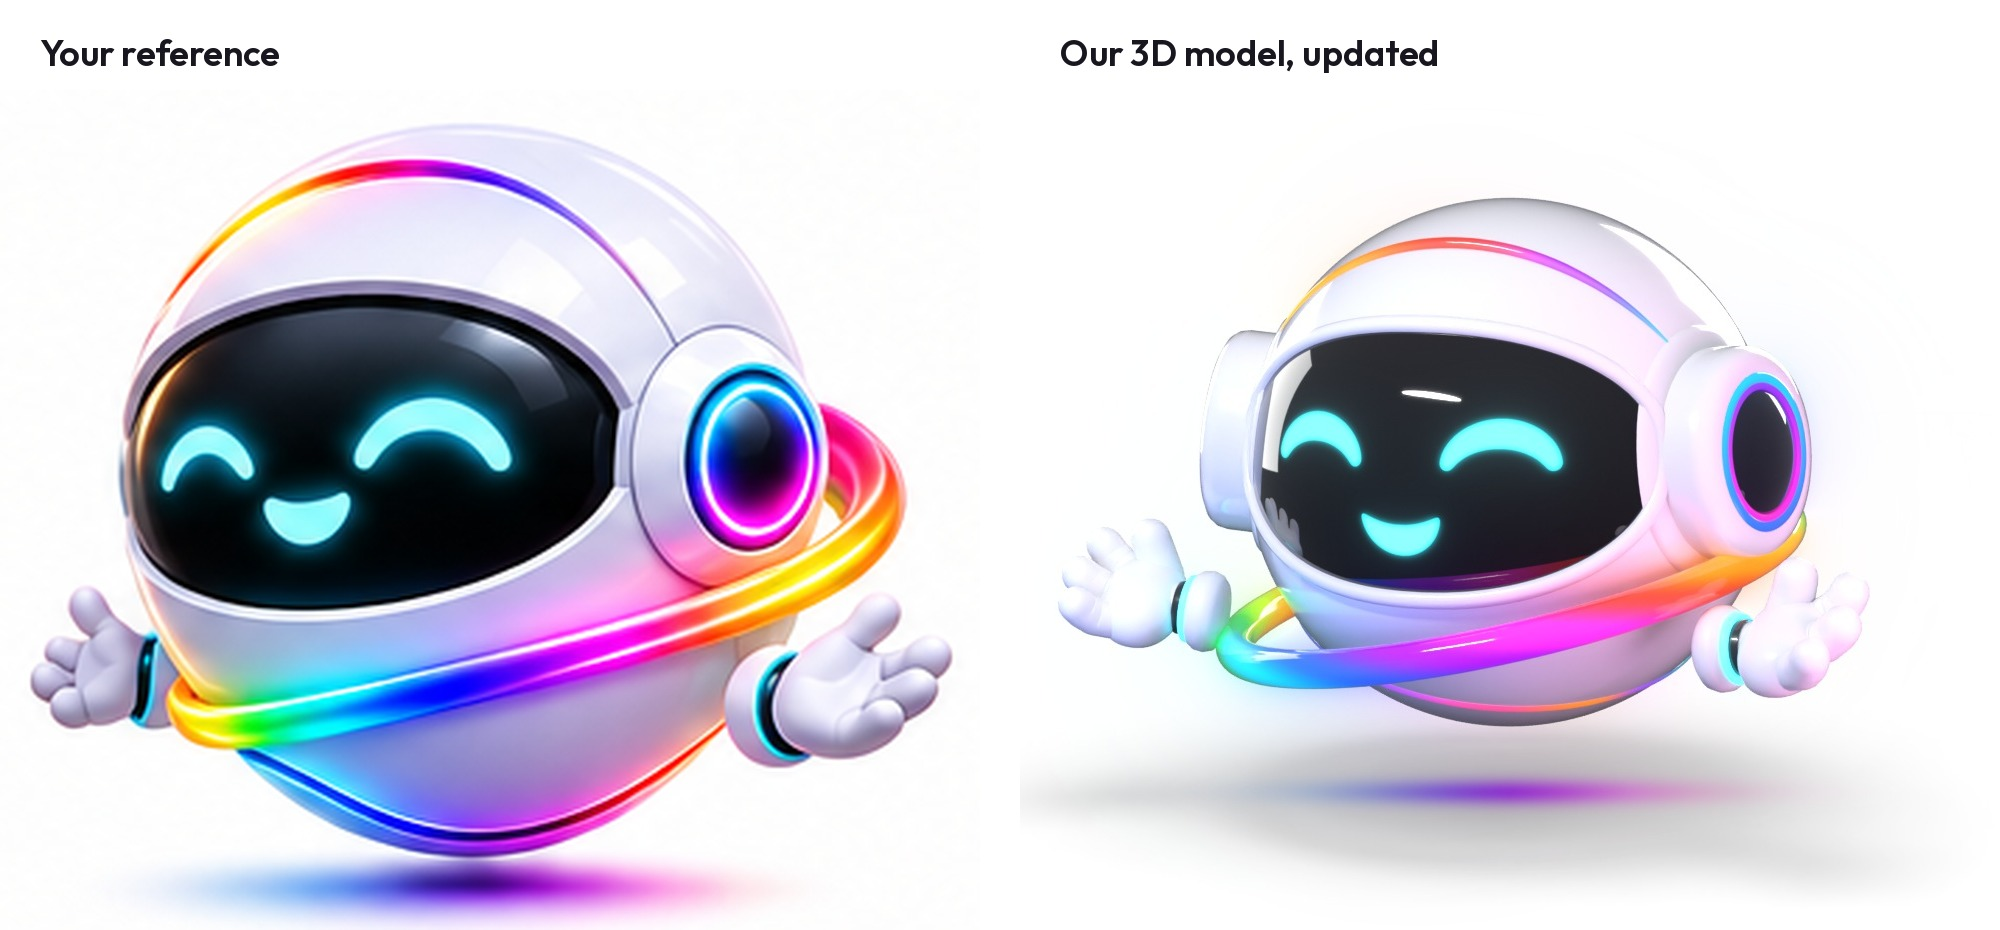
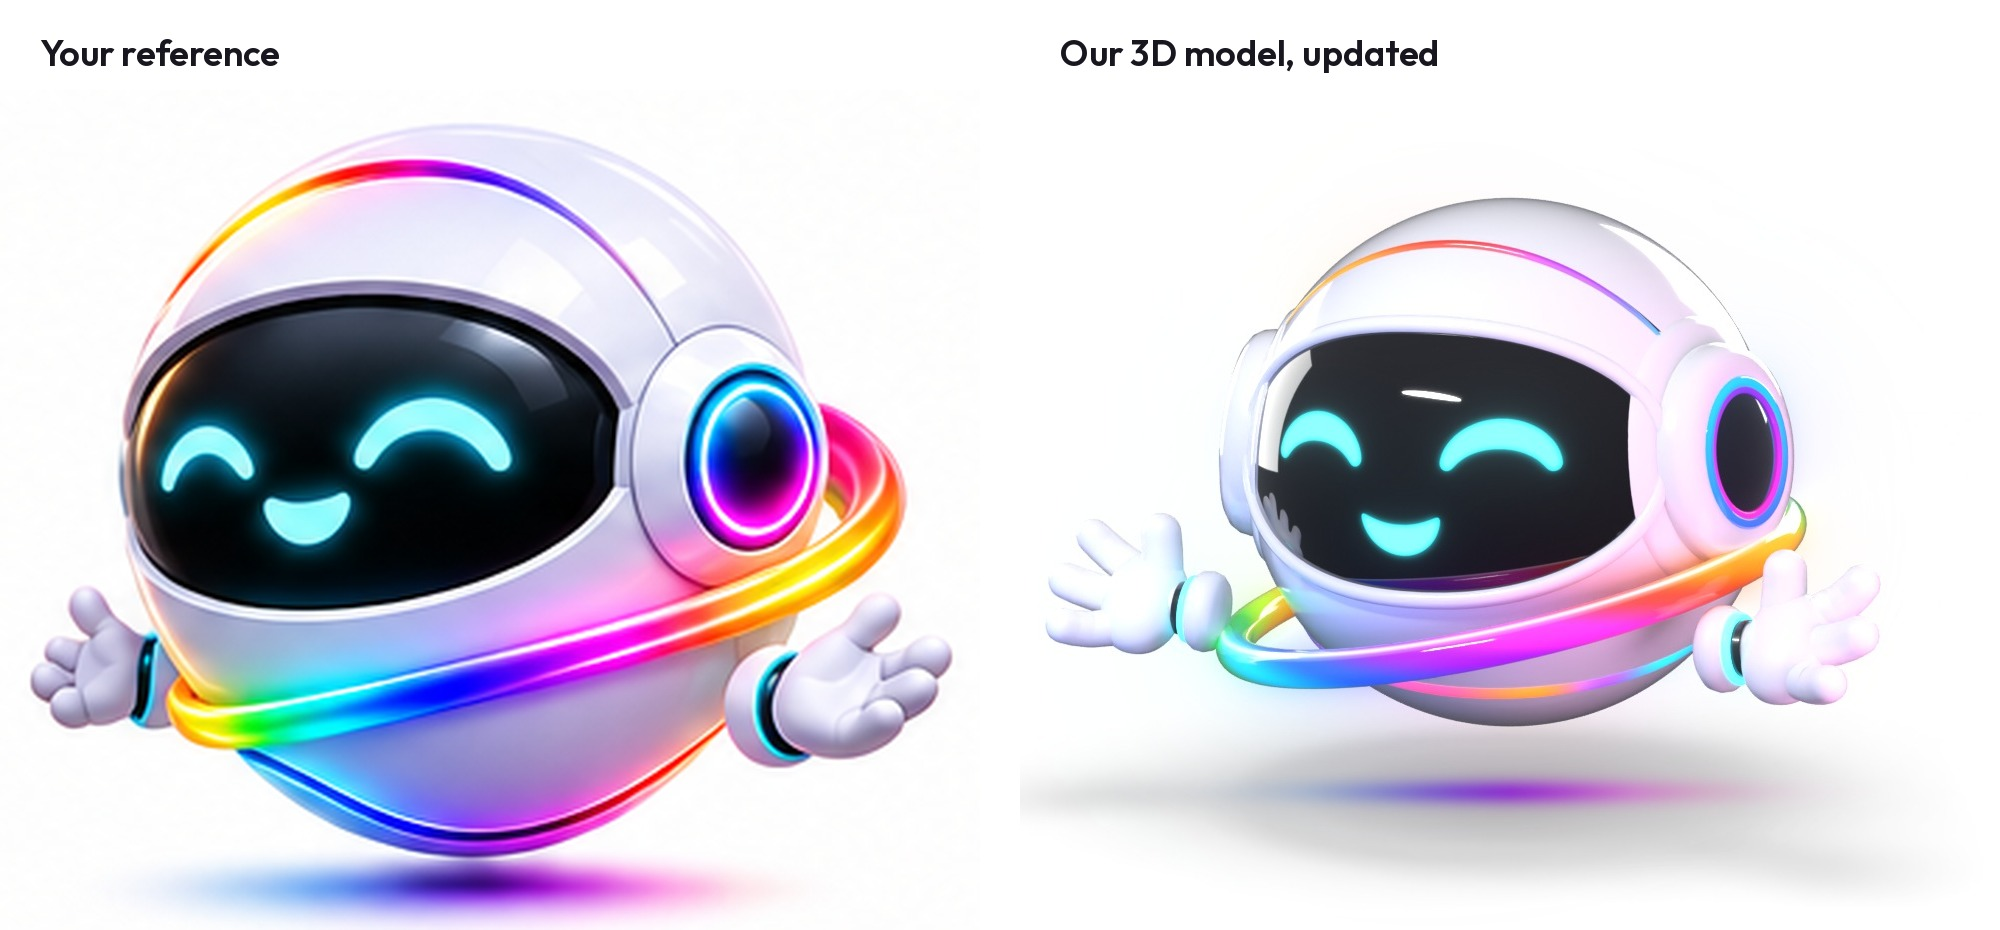
Character version 3: thin attached ears, glossy ring highlight, fanned hands, cut for the top light, visible bottom gradient
Claude-Session: https://claude.ai/code/session_011BdSE2fEeiEv9ZgoYmWAPn

diff --git a/design/hero/character/v3/build.py b/design/hero/character/v3/build.py
@@ -191,24 +191,24 @@ mesh_object('Bezel', verts, faces, M_body, parent=root)
 EAR_LON, EAR_LAT = 76, 6
 for s in (1, -1):
     ax = on_sphere(s * EAR_LON, EAR_LAT); nm = 'L' if s > 0 else 'R'
-    plate = [(0.0, 1.012)] + [(rr, math.sqrt(1 - rr * rr) + 0.012) for rr in (0.2, 0.3, 0.4, 0.44, 0.455)] + [(0.465, math.sqrt(1 - 0.465 ** 2) + 0.004), (0.47, math.sqrt(1 - 0.47 ** 2) - 0.004), (0.472, math.sqrt(1 - 0.472 ** 2) - 0.02)]
+    plate = [(0.0, 1.012)] + [(rr, math.sqrt(1 - rr * rr) + 0.014) for rr in (0.2, 0.3, 0.4, 0.46, 0.485)] + [(0.497, math.sqrt(1 - 0.497 ** 2) + 0.005), (0.503, math.sqrt(1 - 0.503 ** 2) - 0.004), (0.505, math.sqrt(1 - 0.505 ** 2) - 0.02)]
     lathe('EarPlate' + nm, plate, M_body, axis=ax)
-    lathe('EarCup' + nm, [(0.385, 0.86), (0.385, 1.05), (0.378, 1.085), (0.36, 1.11), (0.33, 1.125), (0.295, 1.13), (0.272, 1.126), (0.262, 1.118), (0.258, 1.108)], M_body, axis=ax)
-    lathe('EarCentre' + nm, [(0.24, 1.104), (0.205, 1.14), (0.11, 1.17), (0.0, 1.18)], M_black, axis=ax)
-    torus('EarRingIn' + nm, 0.236, 0.016, M_earRing, axis=ax, center=ax * 1.122, n=160, m=10, color=lambda t, b, s=s: ramp(EARIN, (t + (0.25 if s > 0 else 0.75)) % 1.0), parent=root)
-    torus('EarRing' + nm, 0.266, 0.024, M_earRing, axis=ax, center=ax * 1.116, n=160, m=12, color=lambda t, b, s=s: ramp(EAR, (t + (0.25 if s > 0 else 0.75)) % 1.0))
+    lathe('EarCup' + nm, [(0.4, 0.88), (0.4, 0.955), (0.393, 0.995), (0.375, 1.025), (0.345, 1.045), (0.305, 1.056), (0.275, 1.054), (0.258, 1.047), (0.25, 1.038)], M_body, axis=ax)   # a low housing, close on the body
+    lathe('EarCentre' + nm, [(0.238, 1.036), (0.2, 1.062), (0.1, 1.086), (0.0, 1.093)], M_black, axis=ax)
+    torus('EarRingIn' + nm, 0.226, 0.015, M_earRing, axis=ax, center=ax * 1.05, n=160, m=10, color=lambda t, b, s=s: ramp(EARIN, (t + (0.25 if s > 0 else 0.75)) % 1.0), parent=root)
+    torus('EarRing' + nm, 0.255, 0.022, M_earRing, axis=ax, center=ax * 1.048, n=160, m=12, color=lambda t, b, s=s: ramp(EAR, (t + (0.25 if s > 0 else 0.75)) % 1.0))
     for o in ('EarPlate', 'EarCup', 'EarCentre', 'EarRing'): bpy.data.objects[o + nm].parent = root
 
 # ---------------------------------------------------------------- the rainbow stripe over the head, ear to ear, and the glowing seam low on the front
 E1 = on_sphere(EAR_LON, EAR_LAT); TOP = on_sphere(0, 58)
 n_ = Vector((1, 0, 0)).cross(TOP - Vector((0, E1.y, E1.z))).normalized(); d_ = n_.dot(E1); C_ = n_ * d_; rr_ = math.sqrt(1 - d_ * d_); up_ = n_.cross(Vector((1, 0, 0))).normalized()
 if up_.z < 0: up_ = -up_
-head_pts = [C_ + rr_ * (math.cos(a) * Vector((1, 0, 0)) + math.sin(a) * up_) for a in [math.radians(144 - 108 * i / 199) for i in range(200)]]
-tube('HeadStripe', head_pts, lambda t: 0.026 * math.sin(math.pi * t) ** 0.75 + 0.0004, M_head, n=12, color=lambda t: spectrum(0.875 - 0.5 * t), parent=root)   # both ends come to a sharp point
+head_pts = [C_ + (rr_ - 0.006) * (math.cos(a) * Vector((1, 0, 0)) + math.sin(a) * up_) for a in [math.radians(146 - 112 * i / 199) for i in range(200)]]
+tube('HeadStripe', head_pts, lambda t: 0.021 * math.sin(math.pi * t) ** 0.6 + 0.0004, M_head, n=12, color=lambda t: spectrum(0.875 - 0.5 * t), parent=root)   # in the cut; both ends come to a sharp point
 # the bottom piece, as on the current website character: a groove that parts the base panel, lit along its front with the gradient line
 M_base = material('base', (0.8, 0.82, 0.88), rough=0.18, coat=1.0); M_dark = material('socket', (0.012, 0.015, 0.02), rough=0.3); DARK_IN_GLOW |= {'base', 'socket'}
-RHO = math.radians(53); h0 = Vector((math.sin(math.radians(212)), -math.cos(math.radians(212)), 0))
-AX = (math.cos(math.radians(21)) * Vector((0, 0, -1)) + math.sin(math.radians(21)) * h0).normalized()
+RHO = math.radians(55); h0 = Vector((math.sin(math.radians(192)), -math.cos(math.radians(192)), 0))
+AX = (math.cos(math.radians(16)) * Vector((0, 0, -1)) + math.sin(math.radians(16)) * h0).normalized()
 U = (-h0 - AX * (-h0).dot(AX)).normalized(); V = AX.cross(U)
 def groove_pt(theta, phi, r): return r * (math.cos(theta) * AX + math.sin(theta) * (math.cos(phi) * U + math.sin(phi) * V))
 def half_width(phi): return 0.015 + 0.035 * (0.5 - 0.5 * math.cos(phi)) ** 1.3
@@ -221,6 +221,17 @@ for i in range(NG):
 cutter = mesh_object('GrooveCut', verts, faces, M_dark)
 mod = body.modifiers.new('cut', 'BOOLEAN'); mod.operation = 'DIFFERENCE'; mod.object = cutter; mod.solver = 'EXACT'; mod.material_mode = 'TRANSFER'
 bpy.context.view_layer.objects.active = body; bpy.ops.object.modifier_apply(modifier=mod.name); bpy.data.objects.remove(cutter)
+# the cut over the head that the top light sits in: a thin slot from ear to ear, so the shell reads as fitted panels
+hv, hf = [], []; HN = 120
+for i in range(HN + 1):
+    a = math.radians(3 + 174 * i / HN); dirv = math.cos(a) * Vector((1, 0, 0)) + math.sin(a) * up_
+    for rad, tt in ((rr_ - 0.05, -0.015), (rr_ - 0.05, 0.015), (rr_ + 0.09, 0.015), (rr_ + 0.09, -0.015)): hv.append(C_ + dirv * rad + n_ * tt)
+for i in range(HN):
+    for k in range(4): hf.append((i * 4 + k, i * 4 + (k + 1) % 4, (i + 1) * 4 + (k + 1) % 4, (i + 1) * 4 + k))
+hf += [(0, 1, 2, 3), (HN * 4, HN * 4 + 1, HN * 4 + 2, HN * 4 + 3)]
+headcut = mesh_object('HeadCut', hv, hf, M_dark)
+mod = body.modifiers.new('headcut', 'BOOLEAN'); mod.operation = 'DIFFERENCE'; mod.object = headcut; mod.solver = 'EXACT'; mod.material_mode = 'TRANSFER'
+bpy.context.view_layer.objects.active = body; bpy.ops.object.modifier_apply(modifier=mod.name); bpy.data.objects.remove(headcut)
 me_ = body.data; base_slot = len(me_.materials); me_.materials.append(M_base); bm = bmesh.new(); bm.from_mesh(me_)
 for f in bm.faces:
     f.smooth = True
@@ -230,7 +241,7 @@ for e_ in bm.edges:
 bm.to_mesh(me_); bm.free()
 stops = [(0.00, (1.0, 0.5, 0.12)), (0.07, (1.0, 0.28, 0.55)), (0.16, (0.62, 0.3, 1.0)), (0.27, (0.2, 0.5, 1.0)), (0.36, (0.1, 0.8, 1.0)), (0.40, (0.02, 0.03, 0.05)),
          (0.60, (0.02, 0.03, 0.05)), (0.64, (1.0, 0.3, 0.7)), (0.72, (0.62, 0.3, 1.0)), (0.82, (0.2, 0.5, 1.0)), (0.90, (0.1, 0.85, 1.0)), (0.95, (0.62, 0.3, 1.0)), (1.0, (1.0, 0.5, 0.12))]
-LINE = 0.027; verts, faces, cols = [], [], []
+LINE = 0.036; verts, faces, cols = [], [], []
 def lit(t): return max(ramp(stops, t)) > 0.1
 for i in range(NG):
     phi = 2 * math.pi * i / NG; t = ((i / NG) + 0.04) % 1.0; cl = ramp(stops, t); mid = RHO - half_width(phi) + LINE + 0.002
@@ -252,7 +263,7 @@ def logo_ring(name, R, w, h, mat, n=420, m=28, twist=1.0):
             b = 2 * math.pi * j / m; x, y = w * math.cos(b), h * math.sin(b)
             x, y = x * math.cos(tw) - y * math.sin(tw), x * math.sin(tw) + y * math.cos(tw)
             verts.append(out * (R + x) + up * y)
-            c = ramp(LOGO, (2 * t + 0.02 + 0.07 * math.sin(b)) % 1.0)
+            c = ramp(LOGO, (2 * t + 0.02 + 0.07 * math.sin(b)) % 1.0); hl = math.exp(-((((b - 1.1 + math.pi) % (2 * math.pi)) - math.pi) / 0.2) ** 2) * 0.85; c = mix(c, (1, 1, 1), hl)   # a glossy white line along the tube
             shade = 1.0
             cols.append(lin(tuple(v * shade for v in c)))
     for i in range(n):
@@ -267,7 +278,7 @@ def ring_point(a_deg):
 # ---------------------------------------------------------------- hands: cartoon gloves, built in their own frame (palm at the origin,
 # fingers along +Z, palm facing -Y); th = +1 puts the thumb on +X (the character's right hand), -1 on -X (its left hand)
 POSES = {
-    'open':     dict(f=[(16, 22, 12), (12, 20, 10), (18, 24, 12)], spread=1.7, thumb=((0.5, -0.72, 0.42), (4, 8))),
+    'open':     dict(f=[(10, 16, 10), (8, 14, 8), (12, 18, 10)], spread=1.9, thumb=((0.78, -0.62, 0.12), (0, 6))),
     'palm':     dict(f=[(3, 5, 3)] * 3, spread=1.4, thumb=((0.75, -0.35, 0.55), (0, 6))),
     'point':    dict(f=[(0, 0, 0), (90, 105, 75), (90, 105, 75)], spread=0.4, thumb=((0.3, -0.9, 0.4), (30, 34))),
     'thumbsup': dict(f=[(92, 105, 78)] * 3, spread=0.2, thumb=((1.0, -0.2, 0.35), (0, 0))),
@@ -275,7 +286,7 @@ POSES = {
     'chin':     dict(f=[(22, 20, 10), (86, 100, 72), (88, 102, 74)], spread=0.4, thumb=((0.7, -0.6, 0.45), (8, 8))),
     'pen':      dict(f=[(64, 80, 54), (70, 84, 58), (74, 88, 60)], spread=0.2, thumb=((0.4, -0.85, 0.5), (22, 24))),
 }
-FING = [(0.088, 0.052, (0.055, 0.04, 0.03), 12), (0.0, 0.054, (0.06, 0.044, 0.033), 0), (-0.088, 0.051, (0.053, 0.039, 0.029), -12)]   # three short, chubby fingers and a thumb, as on the reference
+FING = [(0.086, 0.05, (0.07, 0.05, 0.036), 13), (0.0, 0.052, (0.076, 0.054, 0.04), 0), (-0.086, 0.049, (0.066, 0.048, 0.035), -13)]   # three fat fingers and a thumb, as on the reference
 HANDS = {}
 def frame_from(F, N):
     Z = Vector(F).normalized(); Nn = Vector(N); Y = -(Nn - Z * Nn.dot(Z)).normalized(); X = Y.cross(Z)
@@ -314,7 +325,7 @@ def show_hands(names):
 
 def side_hand(name, s, cuff=(0.98, -0.52, -0.56), pose='open', F=None, N=None, scale=1.45):
     """A hand at the character's side (s = -1 its right, +1 its left), given by where its cuff ends."""
-    F = Vector(F or (s * 0.97, -0.2, 0.12)).normalized(); N = N or (-s * 0.1, -0.5, 0.86)
+    F = Vector(F or (s * 0.98, -0.16, 0.1)).normalized(); N = N or (0, -0.72, 0.69)
     return hand(name, pose, -s, Vector((s * cuff[0], cuff[1], cuff[2])) + F * 0.205 * scale, F, N, scale)
 
 side_hand('TurnR', -1); side_hand('TurnL', 1)

diff --git a/design/hero/character/v3/final.py b/design/hero/character/v3/final.py
@@ -39,9 +39,9 @@ def neon(name, strength, white=0.12):
     nt.links.new(inv.outputs[0], st.inputs['Value']); nt.links.new(st.outputs['Result'], b.inputs['Emission Strength'])
     b.inputs['Roughness'].default_value = 0.1; b.inputs['Coat Weight'].default_value = 1.0; b.inputs['Coat Roughness'].default_value = 0.0
 bpy.data.materials['visor'].node_tree.nodes['Principled BSDF'].inputs['Emission Strength'].default_value = 1.6
-for nm, s_ in (('headStripe', 1.6), ('lowSeam', 2.0)): neon(nm, s_)
+for nm, s_ in (('headStripe', 1.6), ('lowSeam', 2.6)): neon(nm, s_)
 neon('earRing', 1.3, white=0.0)
-rb = bsdf('ring'); rb.inputs['Emission Strength'].default_value = 1.0; rb.inputs['Roughness'].default_value = 0.1; rb.inputs['Coat Weight'].default_value = 1.0; rb.inputs['Coat Roughness'].default_value = 0.0
+rb = bsdf('ring'); rb.inputs['Emission Strength'].default_value = 0.85; rb.inputs['Roughness'].default_value = 0.1; rb.inputs['Coat Weight'].default_value = 1.0; rb.inputs['Coat Roughness'].default_value = 0.0
 next(n for n in bpy.data.materials['ring'].node_tree.nodes if n.bl_idname == 'ShaderNodeMix').inputs['B'].default_value = (1, 1, 1, 1)   # the logo ring: glossy, deep colour, not a light tube
 
 for nm in ('LowSeam', 'HeadStripe'): bpy.data.objects[nm].visible_glossy = False   # no smeary reflections of the lights on the body or visor
